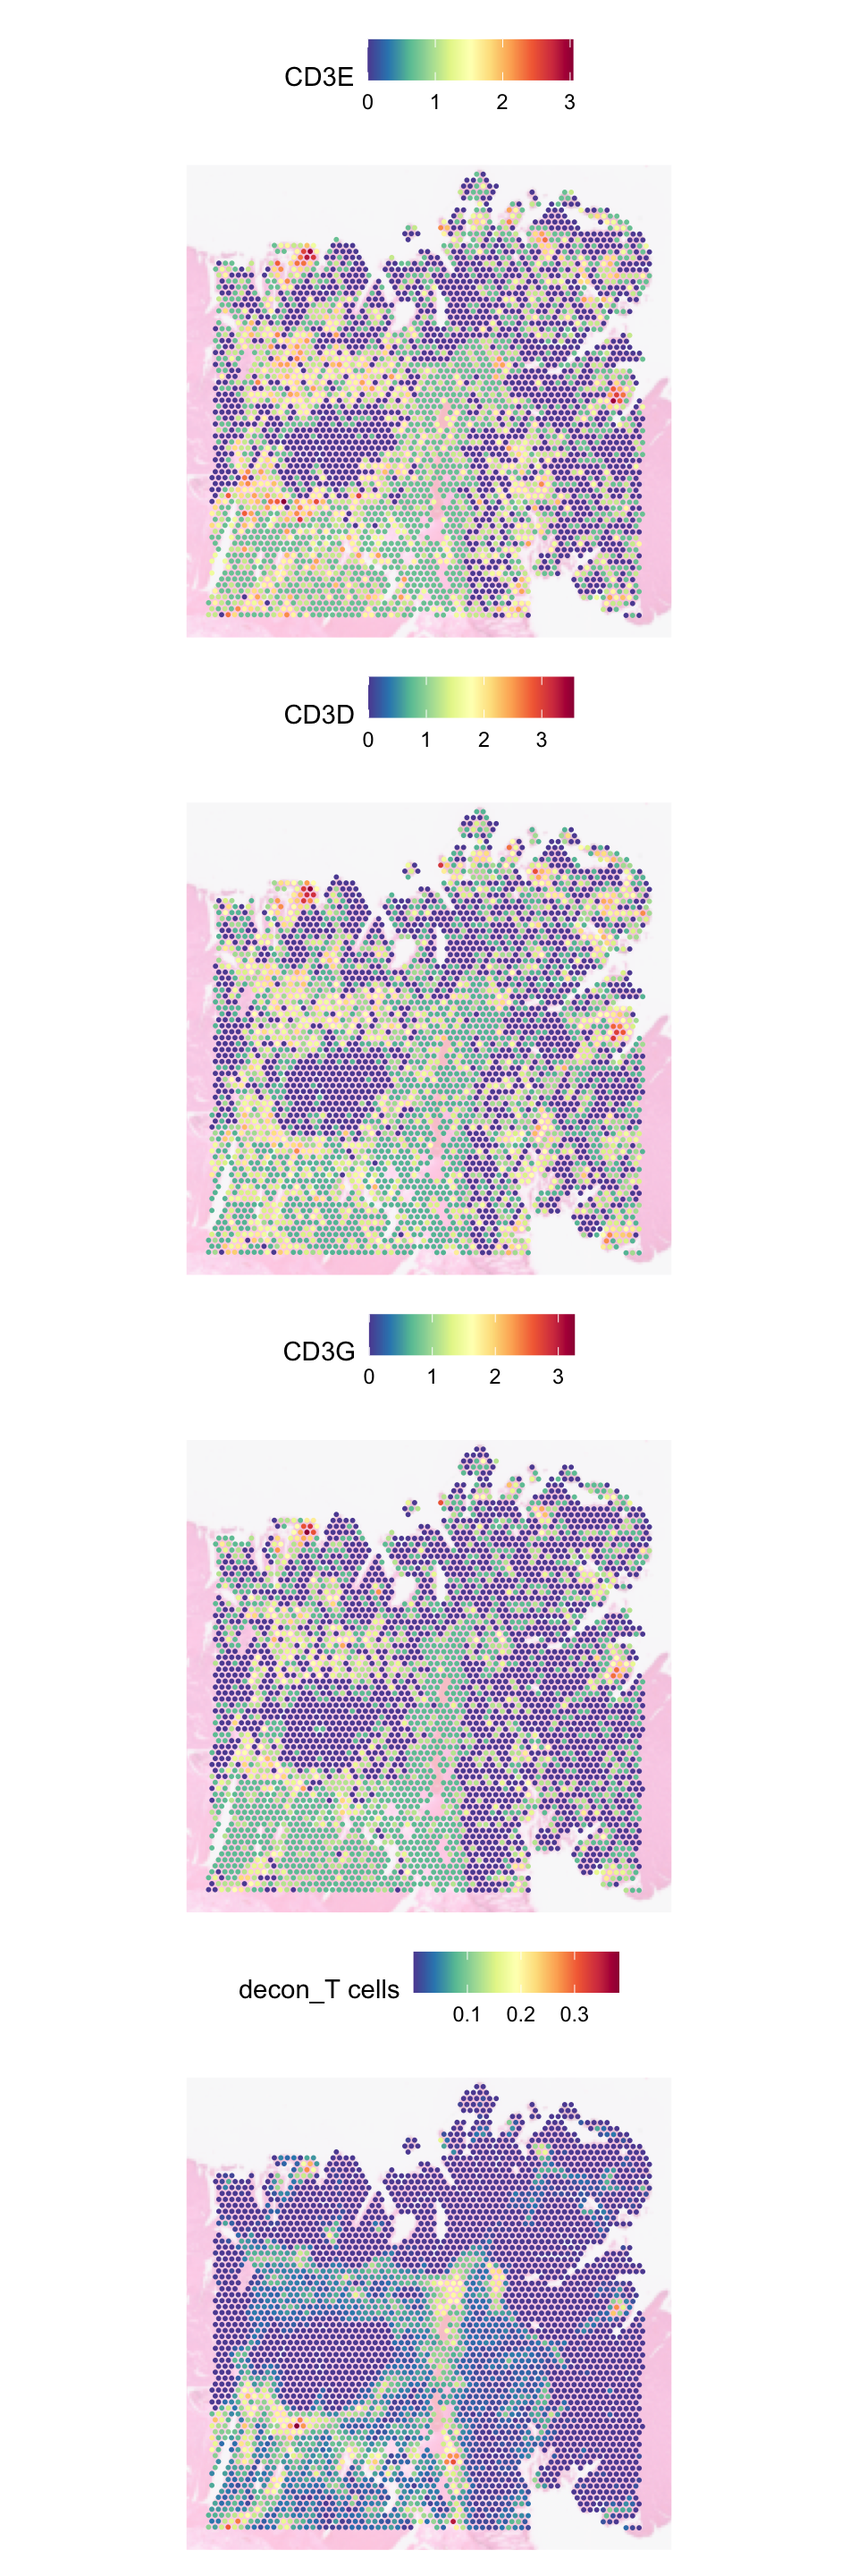
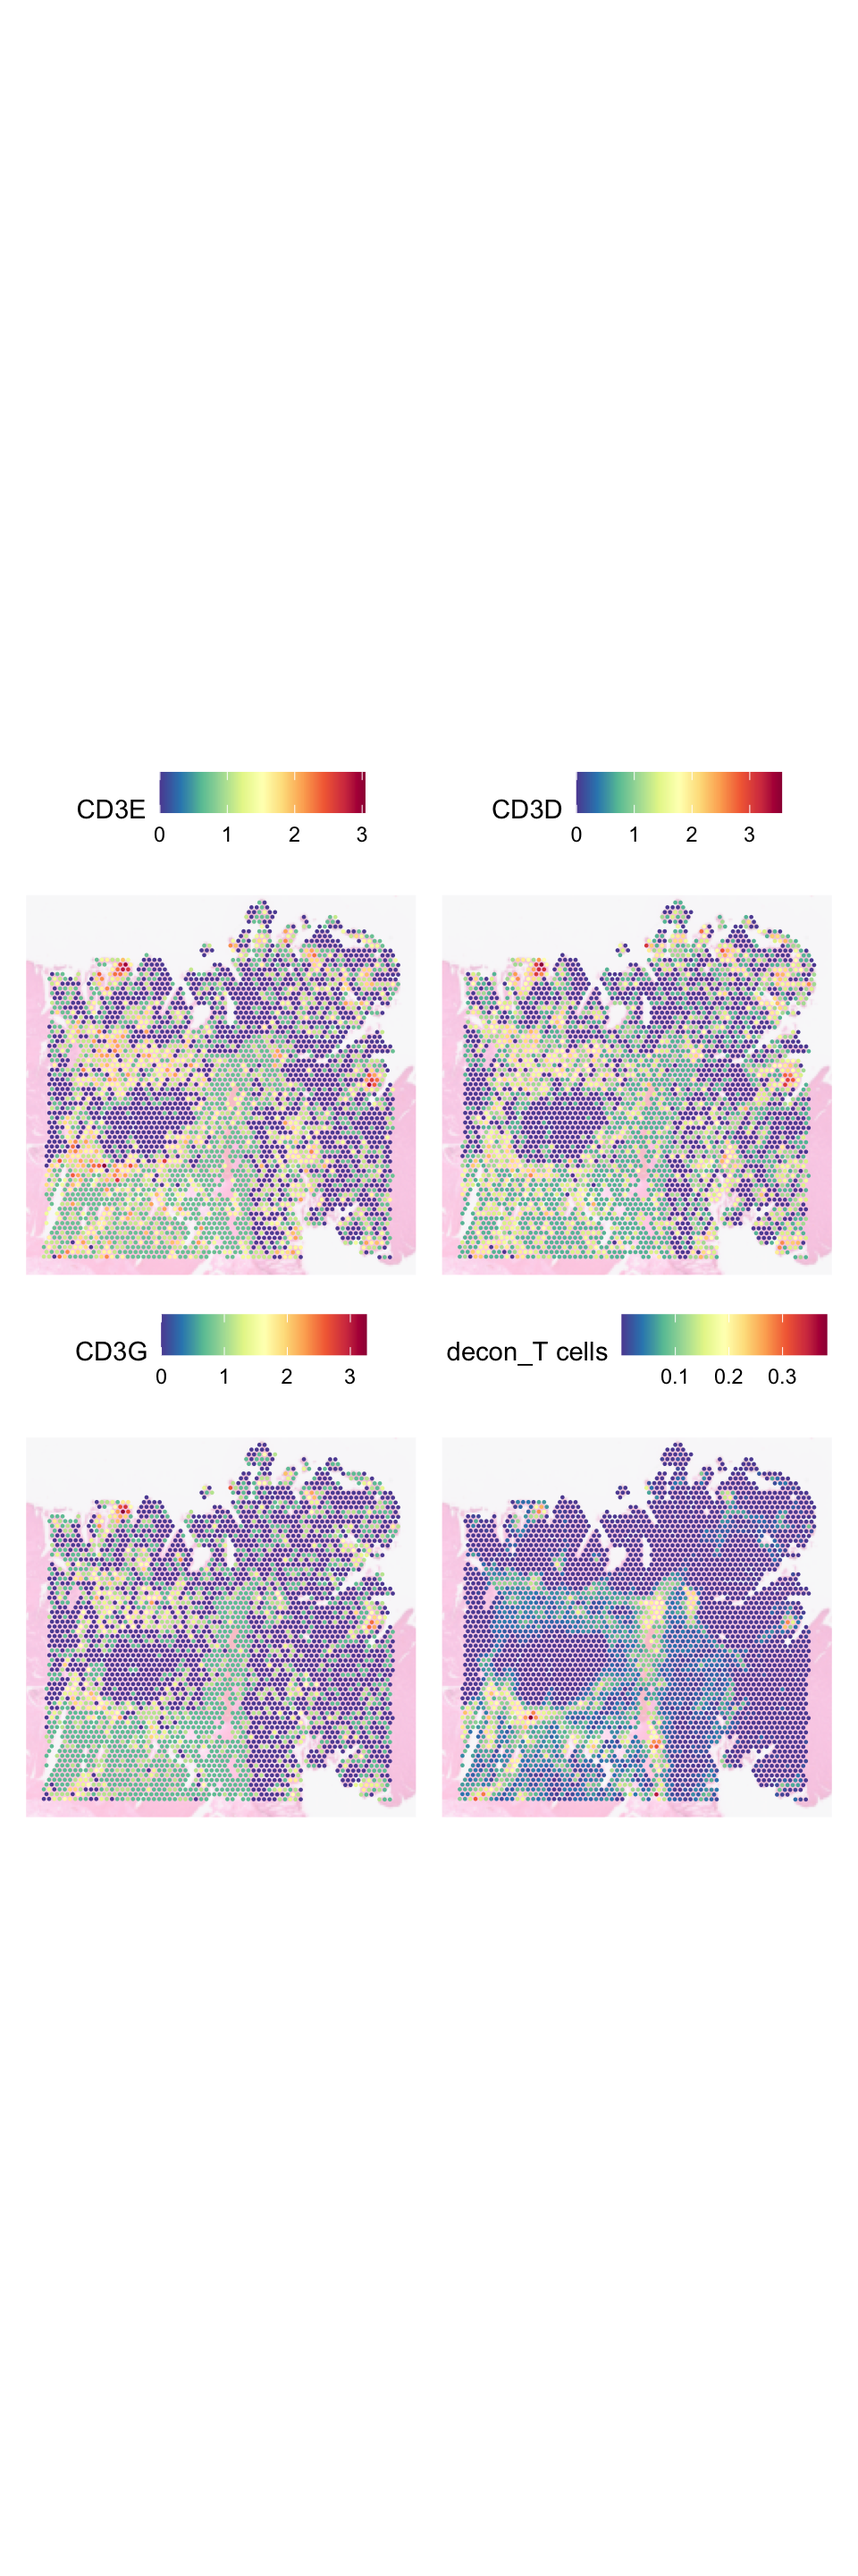
Build site.

diff --git a/docs/visium_04.html b/docs/visium_04.html
@@ -391,7 +391,7 @@ class="glyphicon glyphicon-ok text-success" aria-hidden="true"></span>
 <div class="tab-content">
 <div id="summary" class="tab-pane fade in active">
 <p>
-<strong>Last updated:</strong> 2025-11-25
+<strong>Last updated:</strong> 2025-11-29
 </p>
 <p>
 <strong>Checks:</strong> <span
@@ -523,15 +523,15 @@ project makes it easier to run your code on other machines.</p>
 <div class="panel panel-default">
 <div class="panel-heading">
 <p class="panel-title">
-<a data-toggle="collapse" data-parent="#workflowr-checks" href="#strongRepositoryversionstrongahrefhttpsgithubcomghar18212025cytoconnectspatialworkshoptree2b79564fc3392ca84e0f2f98b99de9bd4bcc2641targetblank2b79564a">
+<a data-toggle="collapse" data-parent="#workflowr-checks" href="#strongRepositoryversionstrongahrefhttpsgithubcomghar18212025cytoconnectspatialworkshoptree5ed5ac7fc3f7a577ee8f10c8091ee70b7a59876ctargetblank5ed5ac7a">
 <span class="glyphicon glyphicon-ok text-success"
 aria-hidden="true"></span> <strong>Repository version:</strong>
-<a href="https://github.com/ghar1821/2025_cytoconnect_spatial_workshop/tree/2b79564fc3392ca84e0f2f98b99de9bd4bcc2641" target="_blank">2b79564</a>
+<a href="https://github.com/ghar1821/2025_cytoconnect_spatial_workshop/tree/5ed5ac7fc3f7a577ee8f10c8091ee70b7a59876c" target="_blank">5ed5ac7</a>
 </a>
 </p>
 </div>
 <div
[2 lines of base64/hex data omitted]
 class="panel-collapse collapse">
 <div class="panel-body">
 <p>
@@ -541,7 +541,7 @@ reproducibility.
 </p>
 <p>
 The results in this page were generated with repository version
-<a href="https://github.com/ghar1821/2025_cytoconnect_spatial_workshop/tree/2b79564fc3392ca84e0f2f98b99de9bd4bcc2641" target="_blank">2b79564</a>.
+<a href="https://github.com/ghar1821/2025_cytoconnect_spatial_workshop/tree/5ed5ac7fc3f7a577ee8f10c8091ee70b7a59876c" target="_blank">5ed5ac7</a>.
 See the <em>Past versions</em> tab to see a history of the changes made
 to the R Markdown and HTML files.
 </p>
@@ -557,15 +557,10 @@ were generated:
 <pre><code>
 Ignored files:
     Ignored:    .DS_Store
+    Ignored:    .Rproj.user/
     Ignored:    data/.DS_Store
     Ignored:    data/imc/
     Ignored:    data/visium/
-
-Untracked files:
-    Untracked:  analysis/imc_01.Rmd
-
-Unstaged changes:
-    Modified:   analysis/imc_02.Rmd
 
 </code></pre>
 <p>
@@ -615,6 +610,40 @@ Message
 Rmd
 </td>
 <td>
+<a href="https://github.com/ghar1821/2025_cytoconnect_spatial_workshop/blob/5ed5ac7fc3f7a577ee8f10c8091ee70b7a59876c/analysis/visium_04.Rmd" target="_blank">5ed5ac7</a>
+</td>
+<td>
+Givanna Putri
+</td>
+<td>
+2025-11-29
+</td>
+<td>
+wflow_publish("analysis/visium_04.Rmd")
+</td>
+</tr>
+<tr>
+<td>
+html
+</td>
+<td>
+<a href="https://rawcdn.githack.com/ghar1821/2025_cytoconnect_spatial_workshop/e4f173254580914a9baca070d679acfe06ff9e6c/docs/visium_04.html" target="_blank">e4f1732</a>
+</td>
+<td>
+Givanna Putri
+</td>
+<td>
+2025-11-25
+</td>
+<td>
+Build site.
+</td>
+</tr>
+<tr>
+<td>
+Rmd
+</td>
+<td>
 <a href="https://github.com/ghar1821/2025_cytoconnect_spatial_workshop/blob/2b79564fc3392ca84e0f2f98b99de9bd4bcc2641/analysis/visium_04.Rmd" target="_blank">2b79564</a>
 </td>
 <td>
@@ -638,7 +667,7 @@ html
 Givanna Putri
 </td>
 <td>
-2025-11-19
+2025-11-18
 </td>
 <td>
 Build site.
@@ -655,7 +684,7 @@ Rmd
 Givanna Putri
 </td>
 <td>
-2025-11-19
+2025-11-18
 </td>
 <td>
 wflow_publish(c("analysis/index.Rmd", "analysis/visium_01.Rmd",
@@ -1216,21 +1245,21 @@ types:</p>
 <pre><code>Warning: The default method for RunUMAP has changed from calling Python UMAP via reticulate to the R-native UWOT using the cosine metric
 To use Python UMAP via reticulate, set umap.method to &#39;umap-learn&#39; and metric to &#39;correlation&#39;
 This message will be shown once per session</code></pre>
-<pre><code>14:57:42 UMAP embedding parameters a = 0.9922 b = 1.112</code></pre>
-<pre><code>14:57:42 Read 3959 rows and found 10 numeric columns</code></pre>
-<pre><code>14:57:42 Using Annoy for neighbor search, n_neighbors = 30</code></pre>
-<pre><code>14:57:42 Building Annoy index with metric = cosine, n_trees = 50</code></pre>
+<pre><code>08:22:19 UMAP embedding parameters a = 0.9922 b = 1.112</code></pre>
+<pre><code>08:22:19 Read 3959 rows and found 10 numeric columns</code></pre>
+<pre><code>08:22:19 Using Annoy for neighbor search, n_neighbors = 30</code></pre>
+<pre><code>08:22:19 Building Annoy index with metric = cosine, n_trees = 50</code></pre>
 <pre><code>0%   10   20   30   40   50   60   70   80   90   100%</code></pre>
 <pre><code>[----|----|----|----|----|----|----|----|----|----|</code></pre>
 <pre><code>**************************************************|
-14:57:42 Writing NN index file to temp file /var/folders/7q/lqx0fzgn1zqfmlc5tx1c0n0r0004z0/T//RtmpAsm4D8/filebb6c5e5aa0cc
-14:57:42 Searching Annoy index using 1 thread, search_k = 3000
-14:57:43 Annoy recall = 100%
-14:57:43 Commencing smooth kNN distance calibration using 1 thread with target n_neighbors = 30
-14:57:43 Initializing from normalized Laplacian + noise (using RSpectra)
-14:57:43 Commencing optimization for 500 epochs, with 152786 positive edges
-14:57:43 Using rng type: pcg
-14:57:46 Optimization finished</code></pre>
+08:22:19 Writing NN index file to temp file /var/folders/7q/lqx0fzgn1zqfmlc5tx1c0n0r0004z0/T//RtmpXklBWW/filea1481d8bfd7
+08:22:19 Searching Annoy index using 1 thread, search_k = 3000
+08:22:19 Annoy recall = 100%
+08:22:20 Commencing smooth kNN distance calibration using 1 thread with target n_neighbors = 30
+08:22:20 Initializing from normalized Laplacian + noise (using RSpectra)
+08:22:20 Commencing optimization for 500 epochs, with 152786 positive edges
+08:22:20 Using rng type: pcg
+08:22:23 Optimization finished</code></pre>
 <pre class="r"><code>FeaturePlot(dat, features = colnames(norm_weights))</code></pre>
 <pre><code>Warning: The `slot` argument of `FetchData()` is deprecated as of SeuratObject 5.0.0.
 ℹ Please use the `layer` argument instead.
@@ -1364,7 +1393,7 @@ deconvolution.</p>
 <p>However, we also see some differences. For example, we have a region
 on the bottom right that shows high score for tumour module but the
 deconvolution detected no tumour at all. Instead, they are deconvolved
-into endothelial cells. On the flip side, we also have a region at the
+into epithelial cells. On the flip side, we also have a region at the
 bottom middle where deconvolution detected some T cells but module
 scoring showed low signals in T cells module.</p>
 <p>For T cells, we can check the deconvolution against CD3 genes:</p>
@@ -1375,7 +1404,7 @@ scoring showed low signals in T cells module.</p>
   ),
   pt.size.factor = 5,
   image.alpha = 0.3,
-  ncol = 1
+  ncol = 2
 )</code></pre>
 <p><img src="figure/visium_04.Rmd/unnamed-chunk-13-1.png" width="480" style="display: block; margin: auto;" /></p>
 <p>
@@ -1687,7 +1716,7 @@ Date
 Givanna Putri
 </td>
 <td>
-2025-11-19
+2025-11-18
 </td>
 </tr>
 </tbody>
@@ -1778,7 +1807,7 @@ LAPACK: /Library/Frameworks/R.framework/Versions/4.5-arm64/Resources/lib/libRlap
 locale:
 [1] en_US.UTF-8/en_US.UTF-8/en_US.UTF-8/C/en_US.UTF-8/en_US.UTF-8
 
-time zone: Australia/Melbourne
+time zone: Australia/Perth
 tzcode source: internal
 
 attached base packages:
